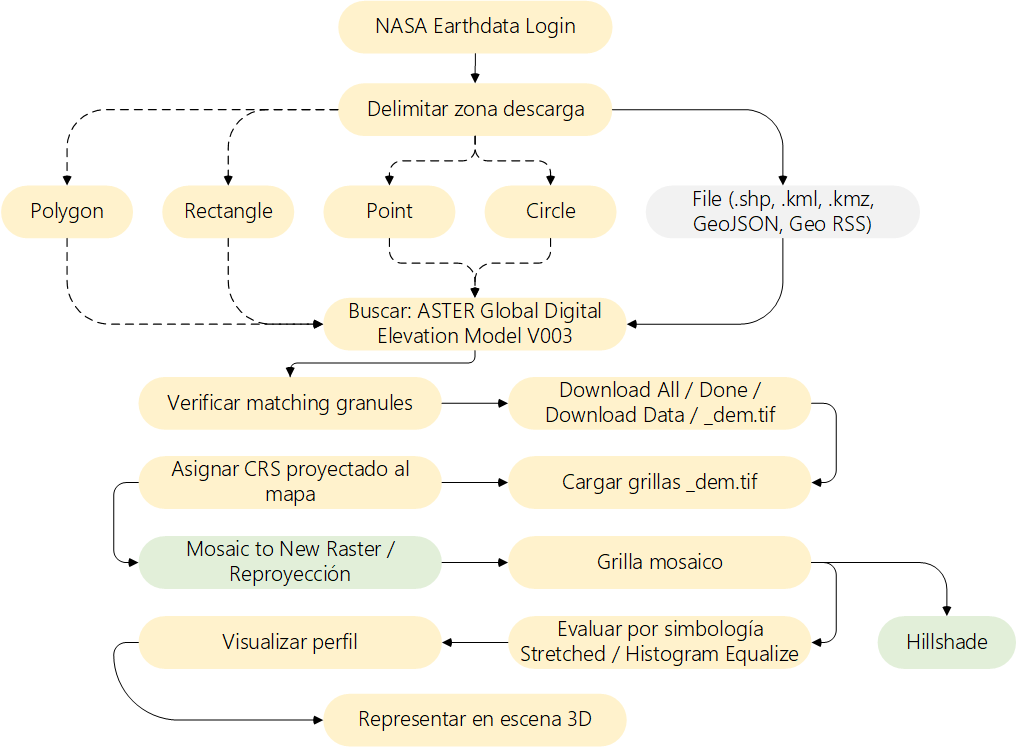
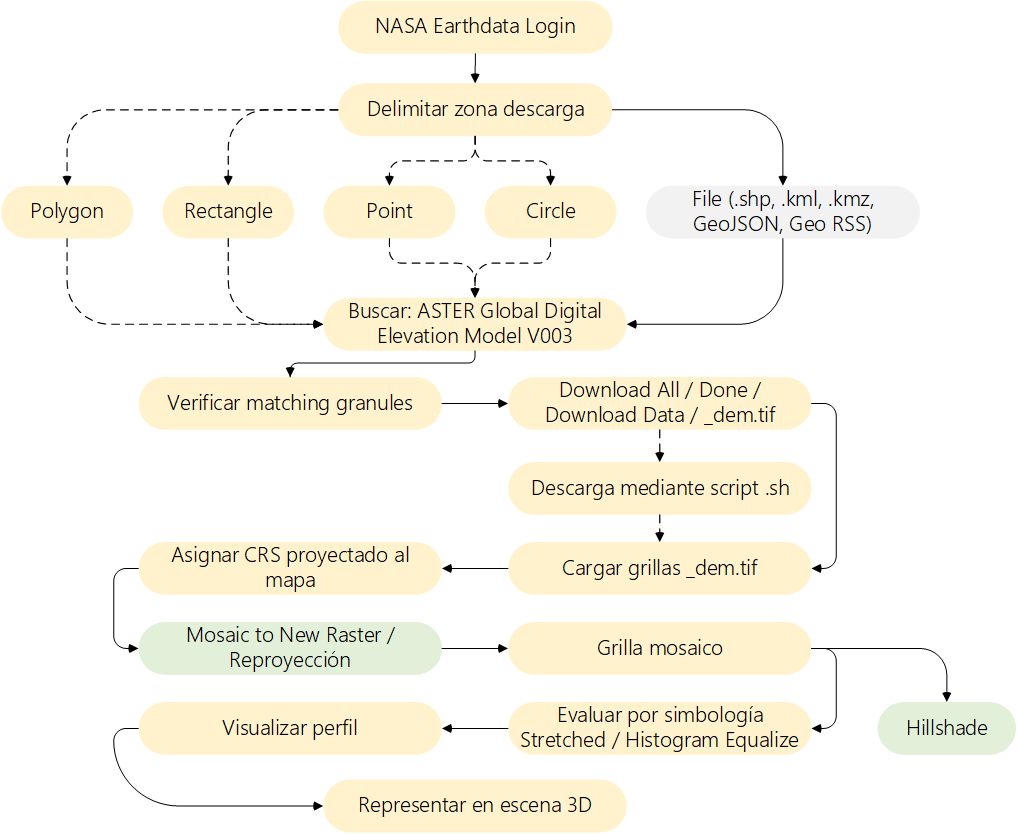
General update.

diff --git a/Section02/DEMSrtm/Readme.md b/Section02/DEMSrtm/Readme.md
@@ -29,6 +29,11 @@ A partir del segundo semestre de 2019, el modelo de terreno SRTM v3, ya se encue
 
 ### Procedimiento de descarga
 
+<div align="center">
+<br><img alt="R.LTWB" src="https://github.com/rcfdtools/R.LTWB/blob/main/Section02/DEMSrtm/Graph/DEMSrtmFlowchart.png" width="70%"><br>
+<sub>Convenciones del diagrama: Clases de entidad en gris, Geo-procesos en verde y Procesos manuales en amarillo.<br>Líneas con guiones corresponden a procedimientos opcionales. </sub><br><br>
+</div>
+
 1. Ingresar al servicio web de la NASA: https://search.earthdata.nasa.gov y dar clic en Earthdata login.
 
 > Realizar el ingreso de usuario usando _LOG IN_ o realizar el registro de nuevo usuario dando clic en _REGISTER_ [(ver instrucciones detalladas)](https://github.com/rcfdtools/R.LTWB/tree/main/Section02/UserCreation)
